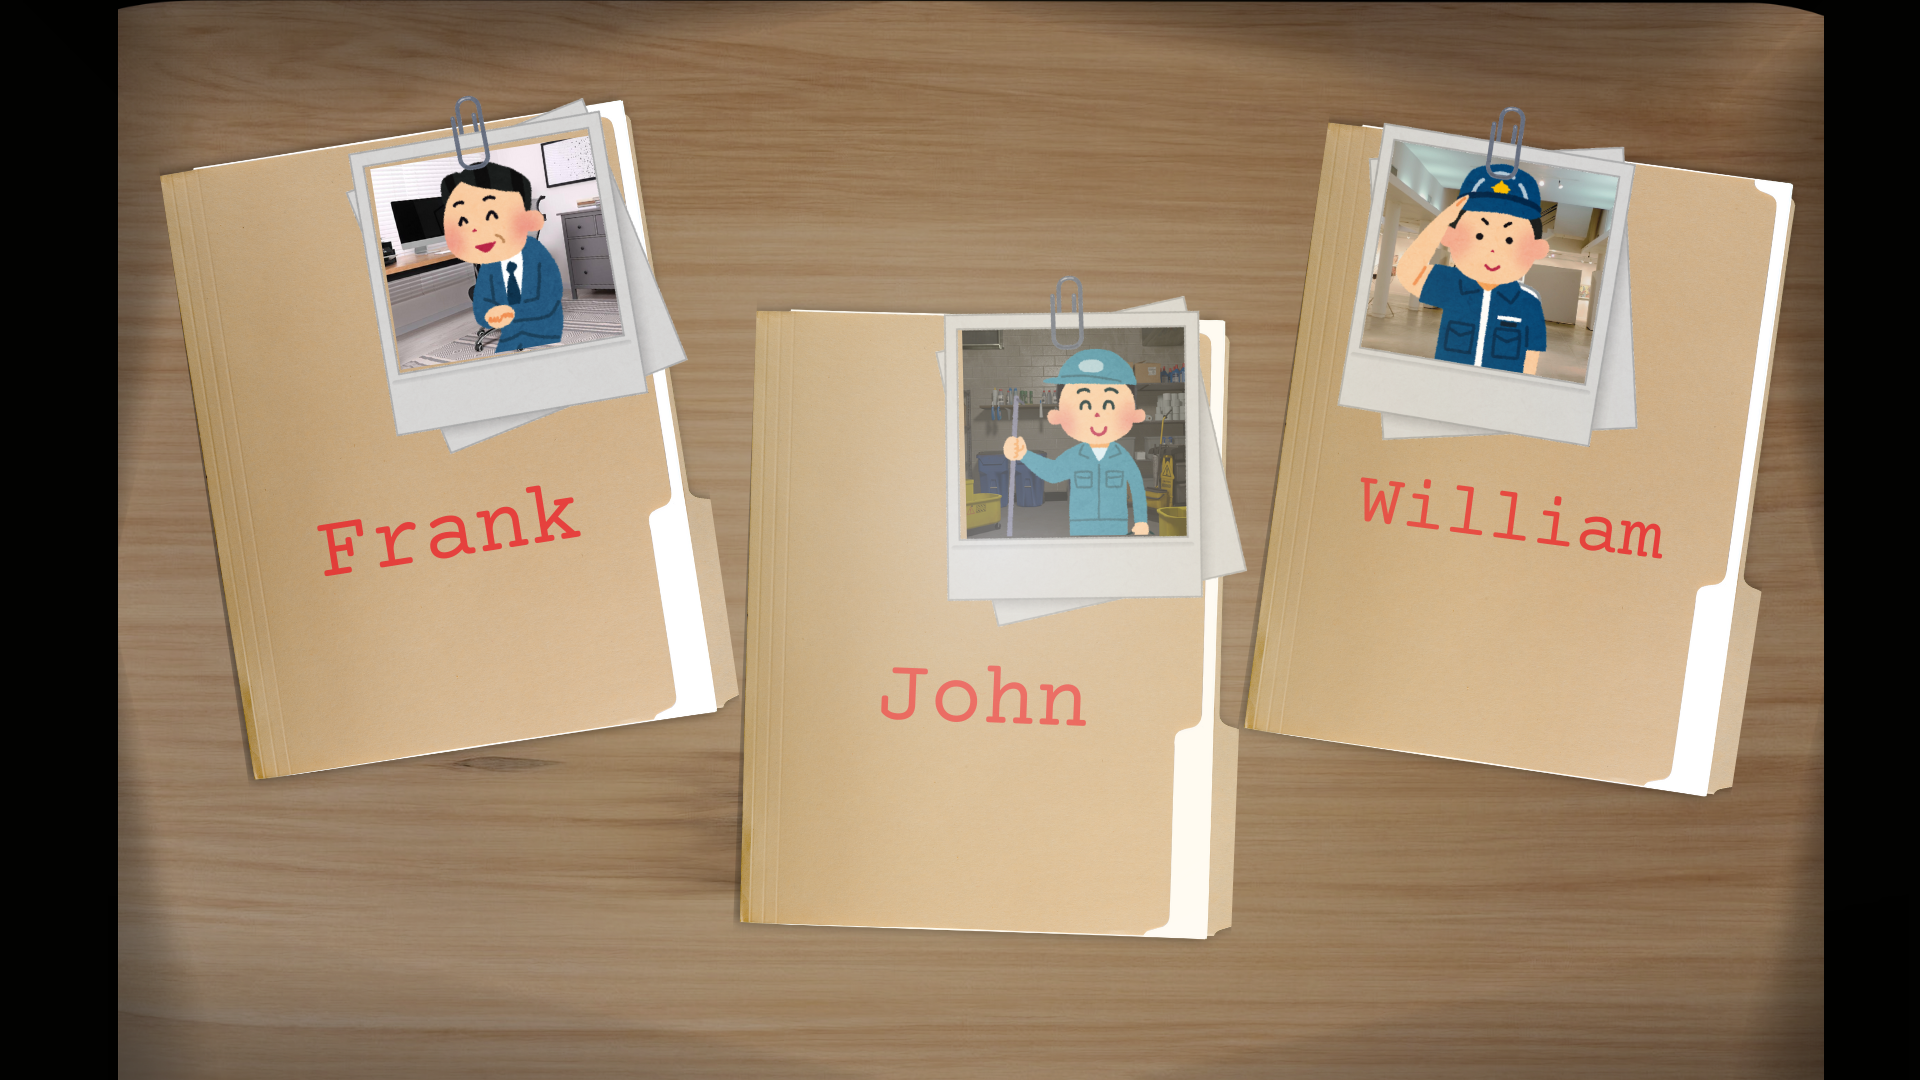
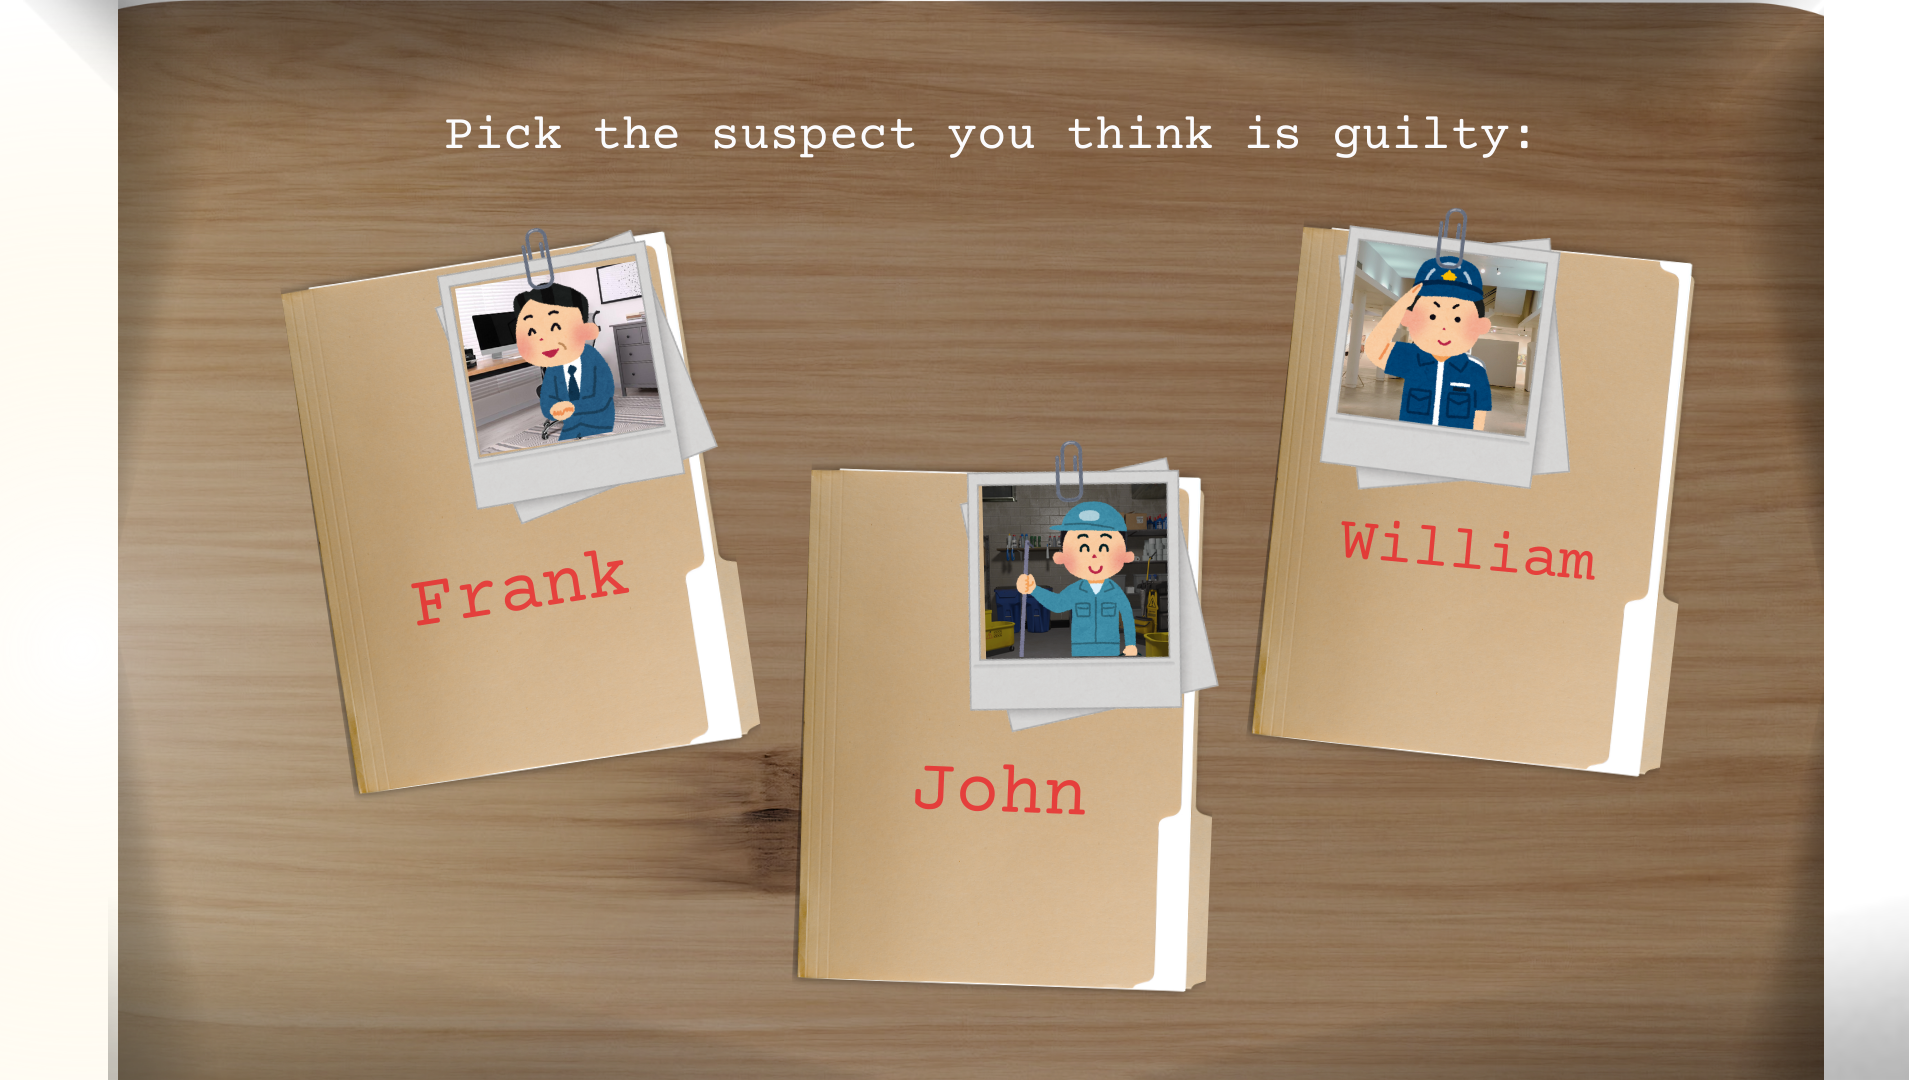
updated explanation and whostheif scenes to look prettier

diff --git a/src/main/java/nz/ac/auckland/se206/controllers/RoomController.java b/src/main/java/nz/ac/auckland/se206/controllers/RoomController.java
@@ -134,6 +134,8 @@ public class RoomController {
       isFirstTimeInit = false;
     }
     timeManager.setTimerLabel(mins, secs);
+    // delete later
+    context.setState(context.getGuessingState());
   }
 
   /**
@@ -240,22 +242,22 @@ public class RoomController {
    */
   @FXML
   private void handleGuessClick(ActionEvent event) throws IOException, URISyntaxException {
-    if (clueHasBeenInteractedWith
-        && InteragationRoomController.getSuspectsHaveBeenTalkedTo()) { // TO DO: &&
-      System.out.println("Now in guessing state");
-      context.handleGuessClick();
-    } else {
-      sound =
-          new Media(
-              App.class
-                  .getResource("/sounds/investigate_more_before_guessing.mp3")
-                  .toURI()
-                  .toString());
-      player = new MediaPlayer(sound);
-      player.play();
-    }
-    // App.setRoot("room");
-    // App.setRoot("whosThief");
+    // if (clueHasBeenInteractedWith
+    //     && InteragationRoomController.getSuspectsHaveBeenTalkedTo()) { // TO DO: &&
+    //   System.out.println("Now in guessing state");
+    //   context.handleGuessClick();
+    // } else {
+    //   sound =
+    //       new Media(
+    //           App.class
+    //               .getResource("/sounds/investigate_more_before_guessing.mp3")
+    //               .toURI()
+    //               .toString());
+    //   player = new MediaPlayer(sound);
+    //   player.play();
+    // }
+    context.handleGuessClick();
+    App.setRoot("whosThief");
   }
 
   /**
